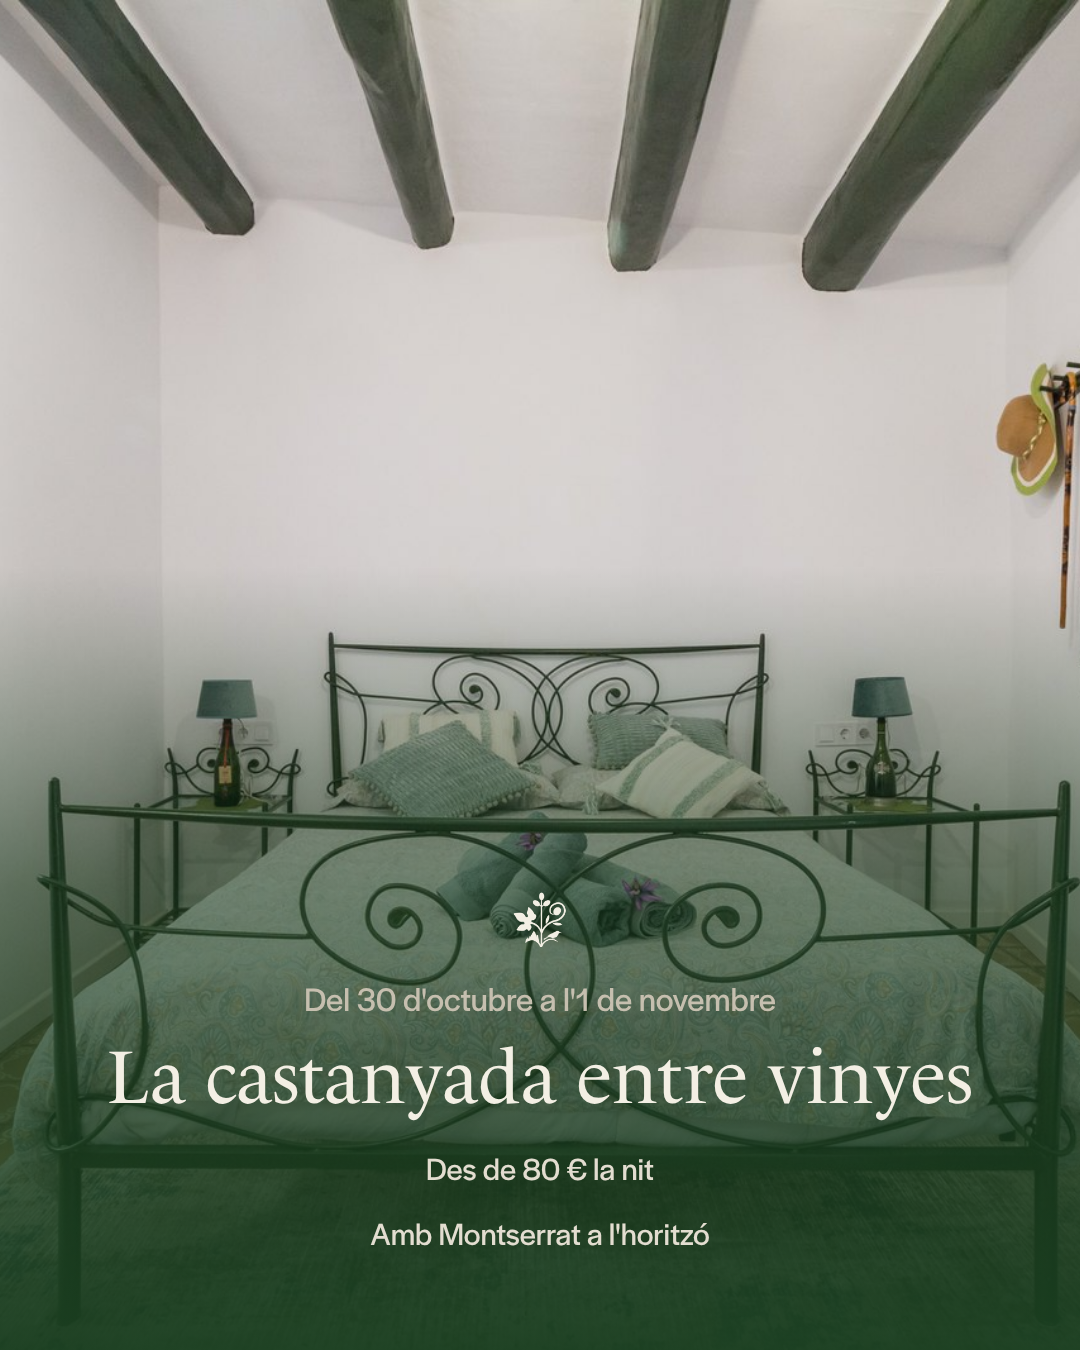
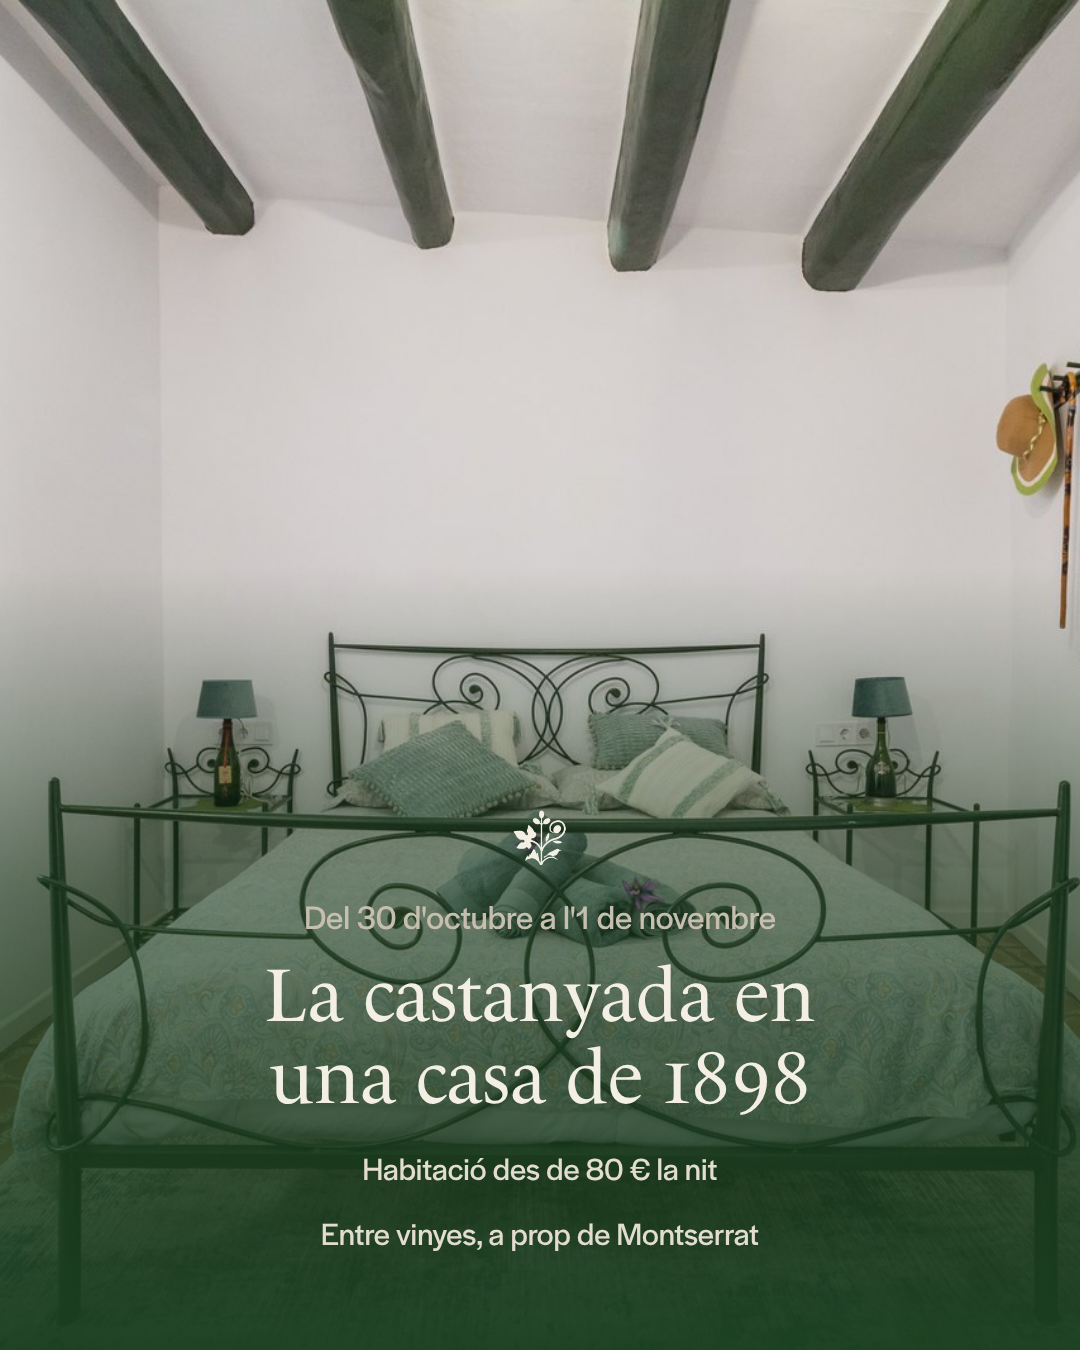
Ads: the castanyada room image gets words that match its photo
Claude-Session: https://claude.ai/code/session_01Lmu1CZcVCAKZt8uGzZEBGx

diff --git a/ads/src/html/castanyada-habitacion-story-es.html b/ads/src/html/castanyada-habitacion-story-es.html
@@ -10,4 +10,4 @@ body { background: #1a3f20; }
 </style><div class="c" style="width:1080px;height:1920px">
 <img src="file:///home/user/casavella/img/logo-light.png" alt="La Casa Vella" style="position:absolute;top:262px;left:50%;width:170px;margin-left:-85px">
 <img class="photo" src="file:///home/user/casavella/img/hab-llit.jpg" style="top:540px;height:680px;object-position:50% center">
-<div style="position:absolute;left:88px;right:88px;top:1270px;display:flex;flex-direction:column;align-items:center;gap:14px;text-align:center"><p class="line" style="font-size: 34px; color: #c6bfaf;">Del 30 de octubre al 1 de noviembre</p><p class="title" style="font-size: 62px;">La castanyada entre viñedos</p><p class="line" style="font-size: 32px;">Desde 80 € la noche</p><p class="line" style="font-size: 32px;">Con Montserrat en el horizonte</p></div></div>
+<div style="position:absolute;left:88px;right:88px;top:1270px;display:flex;flex-direction:column;align-items:center;gap:14px;text-align:center"><p class="line" style="font-size: 34px; color: #c6bfaf;">Del 30 de octubre al 1 de noviembre</p><p class="title" style="font-size: 62px;">La castanyada en una casa de 1898</p><p class="line" style="font-size: 32px;">Habitación desde 80 € la noche</p><p class="line" style="font-size: 32px;">Entre viñedos, cerca de Montserrat</p></div></div>

diff --git a/ads/src/html/castanyada-habitacion-feed-es.html b/ads/src/html/castanyada-habitacion-feed-es.html
@@ -11,4 +11,4 @@ body { background: #1a3f20; }
 <img class="photo" src="file:///home/user/casavella/img/hab-llit.jpg" style="inset:0;height:100%;object-position:50% center">
 <div style="position:absolute;inset:0;background:linear-gradient(0deg,rgba(26,63,32,.96) 0%,rgba(26,63,32,.55) 34%,rgba(26,63,32,0) 58%)"></div>
 <div style="position:absolute;left:88px;right:88px;bottom:96px;display:flex;flex-direction:column;align-items:center;gap:22px;text-align:center">
-<img src="file:///home/user/casavella/img/iso-light.png" alt="" style="width:56px;margin-bottom:6px"><p class="line" style="font-size: 34px; color: #c6bfaf;">Del 30 de octubre al 1 de noviembre</p><p class="title" style="font-size: 76px;">La castanyada entre viñedos</p><p class="line" style="font-size: 32px;">Desde 80 € la noche</p><p class="line" style="font-size: 32px;">Con Montserrat en el horizonte</p></div></div>
+<img src="file:///home/user/casavella/img/iso-light.png" alt="" style="width:56px;margin-bottom:6px"><p class="line" style="font-size: 34px; color: #c6bfaf;">Del 30 de octubre al 1 de noviembre</p><p class="title" style="font-size: 76px;">La castanyada en una casa de 1898</p><p class="line" style="font-size: 32px;">Habitación desde 80 € la noche</p><p class="line" style="font-size: 32px;">Entre viñedos, cerca de Montserrat</p></div></div>

diff --git a/ads/src/html/castanyada-habitacion-story-ca.html b/ads/src/html/castanyada-habitacion-story-ca.html
@@ -10,4 +10,4 @@ body { background: #1a3f20; }
 </style><div class="c" style="width:1080px;height:1920px">
 <img src="file:///home/user/casavella/img/logo-light.png" alt="La Casa Vella" style="position:absolute;top:262px;left:50%;width:170px;margin-left:-85px">
 <img class="photo" src="file:///home/user/casavella/img/hab-llit.jpg" style="top:540px;height:680px;object-position:50% center">
-<div style="position:absolute;left:88px;right:88px;top:1270px;display:flex;flex-direction:column;align-items:center;gap:14px;text-align:center"><p class="line" style="font-size: 34px; color: #c6bfaf;">Del 30 d'octubre a l'1 de novembre</p><p class="title" style="font-size: 62px;">La castanyada entre vinyes</p><p class="line" style="font-size: 32px;">Des de 80 € la nit</p><p class="line" style="font-size: 32px;">Amb Montserrat a l'horitzó</p></div></div>
+<div style="position:absolute;left:88px;right:88px;top:1270px;display:flex;flex-direction:column;align-items:center;gap:14px;text-align:center"><p class="line" style="font-size: 34px; color: #c6bfaf;">Del 30 d'octubre a l'1 de novembre</p><p class="title" style="font-size: 62px;">La castanyada en una casa de 1898</p><p class="line" style="font-size: 32px;">Habitació des de 80 € la nit</p><p class="line" style="font-size: 32px;">Entre vinyes, a prop de Montserrat</p></div></div>

diff --git a/ads/src/html/castanyada-habitacion-feed-ca.html b/ads/src/html/castanyada-habitacion-feed-ca.html
@@ -11,4 +11,4 @@ body { background: #1a3f20; }
 <img class="photo" src="file:///home/user/casavella/img/hab-llit.jpg" style="inset:0;height:100%;object-position:50% center">
 <div style="position:absolute;inset:0;background:linear-gradient(0deg,rgba(26,63,32,.96) 0%,rgba(26,63,32,.55) 34%,rgba(26,63,32,0) 58%)"></div>
 <div style="position:absolute;left:88px;right:88px;bottom:96px;display:flex;flex-direction:column;align-items:center;gap:22px;text-align:center">
-<img src="file:///home/user/casavella/img/iso-light.png" alt="" style="width:56px;margin-bottom:6px"><p class="line" style="font-size: 34px; color: #c6bfaf;">Del 30 d'octubre a l'1 de novembre</p><p class="title" style="font-size: 76px;">La castanyada entre vinyes</p><p class="line" style="font-size: 32px;">Des de 80 € la nit</p><p class="line" style="font-size: 32px;">Amb Montserrat a l'horitzó</p></div></div>
+<img src="file:///home/user/casavella/img/iso-light.png" alt="" style="width:56px;margin-bottom:6px"><p class="line" style="font-size: 34px; color: #c6bfaf;">Del 30 d'octubre a l'1 de novembre</p><p class="title" style="font-size: 76px;">La castanyada en una casa de 1898</p><p class="line" style="font-size: 32px;">Habitació des de 80 € la nit</p><p class="line" style="font-size: 32px;">Entre vinyes, a prop de Montserrat</p></div></div>

diff --git a/ads/src/make.py b/ads/src/make.py
@@ -38,8 +38,8 @@ CONCEPTS = {
     'es': ['Del 30 de octubre al 1 de noviembre', 'La castanyada entre viñedos', 'Desde 80 € la noche', 'Con Montserrat en el horizonte'],
     'ca': ["Del 30 d'octubre a l'1 de novembre", 'La castanyada entre vinyes', 'Des de 80 € la nit', "Amb Montserrat a l'horitzó"]},
   'castanyada-habitacion': {'photo': 'hab-llit', 'pos': '50% center', 'date': True,
-    'es': ['Del 30 de octubre al 1 de noviembre', 'La castanyada entre viñedos', 'Desde 80 € la noche', 'Con Montserrat en el horizonte'],
-    'ca': ["Del 30 d'octubre a l'1 de novembre", 'La castanyada entre vinyes', 'Des de 80 € la nit', "Amb Montserrat a l'horitzó"]},
+    'es': ['Del 30 de octubre al 1 de noviembre', 'La castanyada en una casa de 1898', 'Habitación desde 80 € la noche', 'Entre viñedos, cerca de Montserrat'],
+    'ca': ["Del 30 d'octubre a l'1 de novembre", 'La castanyada en una casa de 1898', 'Habitació des de 80 € la nit', 'Entre vinyes, a prop de Montserrat']},
   'castanyada-cava': {'photo': 'apt-cuina-detall', 'pos': '62% center', 'date': True,
     'es': ['Del 30 de octubre al 1 de noviembre', 'La castanyada entre viñedos', 'Desde 80 € la noche', 'Con Montserrat en el horizonte'],
     'ca': ["Del 30 d'octubre a l'1 de novembre", 'La castanyada entre vinyes', 'Des de 80 € la nit', "Amb Montserrat a l'horitzó"]},
